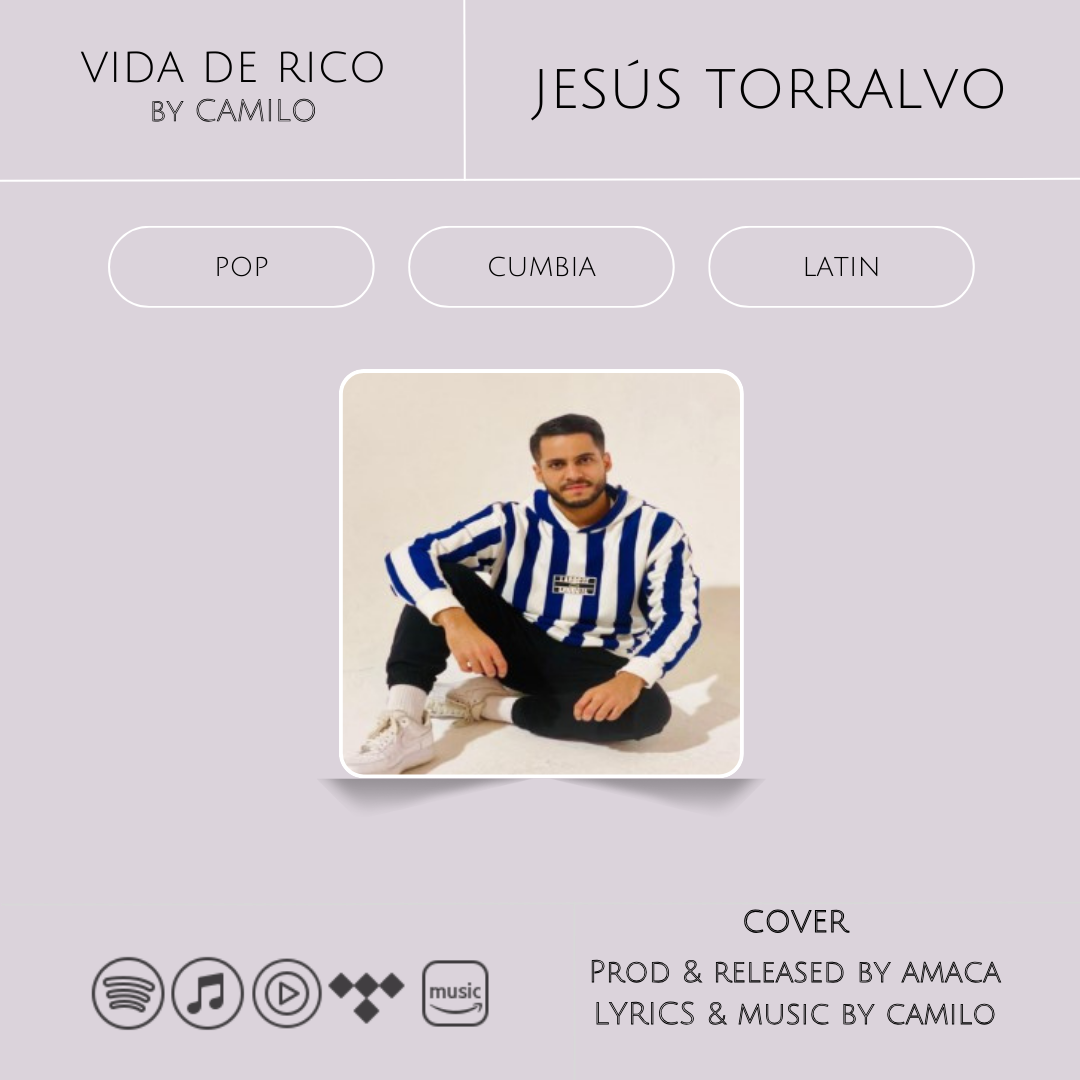
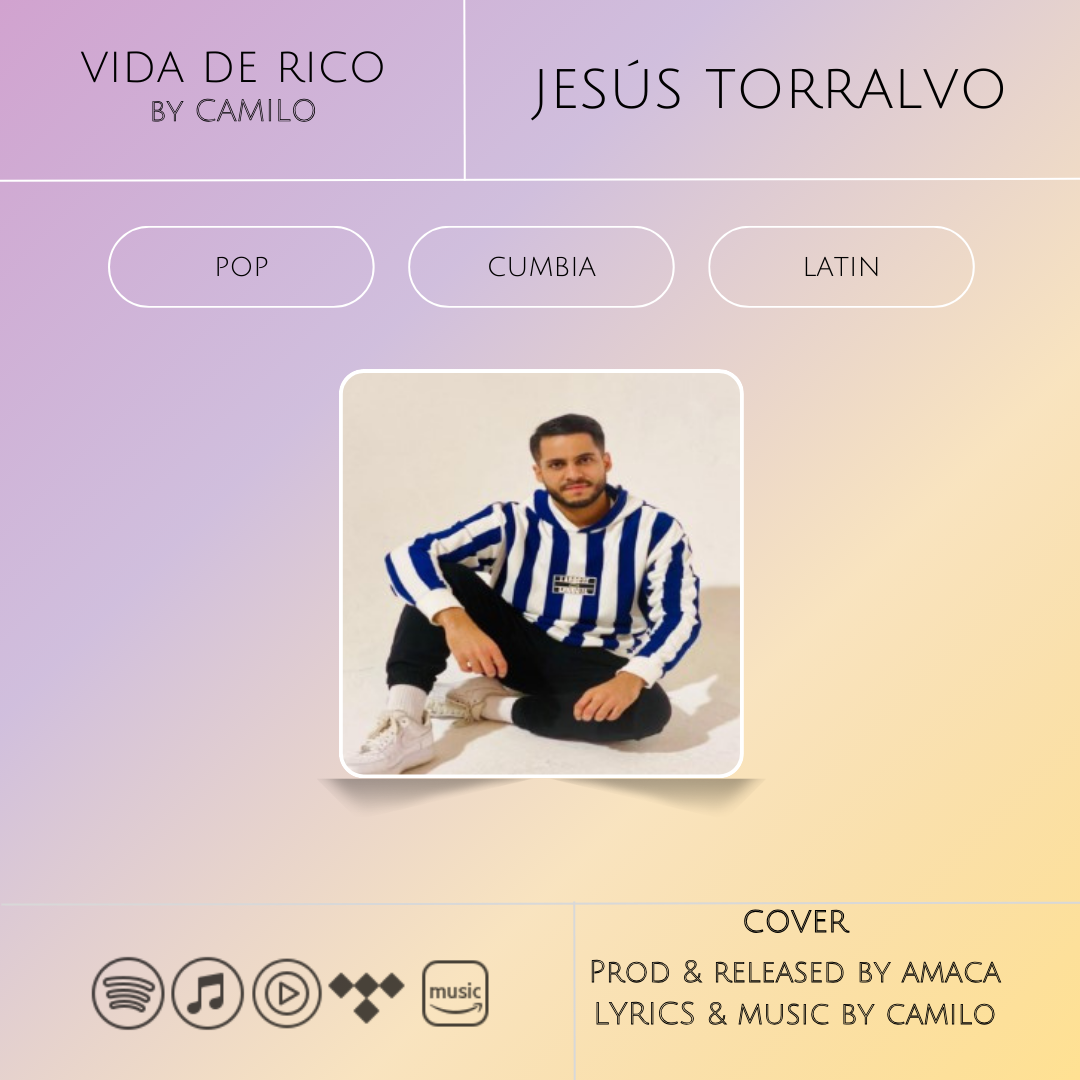
vaqeriendo

diff --git a/styles.css b/styles.css
@@ -1,22 +1,41 @@
 body {
-    font-family: "Julius Sans One", serif;
+    font-family: "Fontdiner Swanky", serif;
+    font-weight: 400;
+    font-style: normal;
     line-height: 1.6;
     margin: 0;
     padding: 0;
     color-scheme: light;
-    background: linear-gradient(to right, #c9bac9, #dbd3db);
+    background: linear-gradient(to right,#ffffffcd, #e99e1b92, #92238d8b, #662c9083);
     color: rgb(51, 51, 51);
 }
 
-.header {
-}	
 
 .header img {
     width: 100%;
-    max-width: 580px;
+    max-width: 380px;
     height: auto;
     margin: 0 auto;
     display: block;
+}
+
+.header h1 {
+    margin: 0 auto;
+    width: 258px;
+    margin-top: 0;
+    font-size: 3.5rem;
+    background: -webkit-linear-gradient(#ffffff, #e99e1b49, #92238d90,#662c9083);
+    -webkit-background-clip: text;
+    -webkit-text-fill-color: transparent;
+    text-shadow: 1px 0 #91288c, -2px 0 #ffffff, 0 2px #ffffff, 0 -1px #ffffff,
+    1px 1px #ffffff, -1px -1px #ffffff, 1px -1px #ffffff, -1px 1px #ffffff;
+}
+
+.header h1:hover {
+    cursor: pointer;
+    transition-duration: 1100ms;
+    text-shadow: 1px 0 #f5f3f4, -2px 0 #91288c, 0 2px #91288c, 0 -1px #91288c,
+    1px 1px #91288c, -1px -1px #91288c, 1px -1px #91288c, -1px 1px #91288c;
 }
 
 .julius-sans-one-regular {
@@ -24,6 +43,12 @@ body {
     font-weight: 400;
     font-style: normal;
   }
+
+  .fontdiner-swanky-regular {
+    font-family: "Fontdiner Swanky", serif;
+    font-weight: 400;
+    font-style: normal;
+  }  
 
 .container {
     width: 90%;
@@ -52,12 +77,21 @@ section {
 
 .hero {
     text-align: center;
-    padding: 12px 0;
+    padding: 1px 0 12px;
 }
 
 .hero h1 {
-    font-size: 2.5em;
+    font-size: 3em;
+    color: #ffffff;
     margin-bottom: 20px;
+    text-shadow: 1px 0 #000000, -2px 0 #000000, 0 2px #000000, 0 -1px #000000,
+    1px 1px #ded40a, -1px -1px #cbc212, 1px -1px #91288c, -1px 1px #91288c;
+}
+
+.hero p {
+    font-family: "Julius Sans One", serif;
+    font-size: 1.5rem;
+    color: #000000;
 }
 
 .releases h2 {

diff --git a/index.html b/index.html
@@ -3,10 +3,11 @@
 <head>
     <meta charset="UTF-8">
     <meta name="viewport" content="width=device-width, initial-scale=1.0">
-    <title>AMACA Producciones</title>
+    <title>AMACA PRODUCCIONES </title>
+    <link rel="icon" href="src/img/favicon.ico" type="image/x-icon">
     <link rel="preconnect" href="https://fonts.googleapis.com">
     <link rel="preconnect" href="https://fonts.gstatic.com" crossorigin>
-    <link href="https://fonts.googleapis.com/css2?family=Julius+Sans+One&display=swap" rel="stylesheet">
+    <link href="https://fonts.googleapis.com/css2?family=Fontdiner+Swanky&family=Julius+Sans+One&display=swap" rel="stylesheet">
     <link rel="stylesheet" href="https://cdnjs.cloudflare.com/ajax/libs/slick-carousel/1.8.1/slick.min.css">
     <link rel="stylesheet" href="https://cdnjs.cloudflare.com/ajax/libs/slick-carousel/1.8.1/slick-theme.min.css">
     <link rel="stylesheet" href="styles.css">
@@ -14,12 +15,13 @@
 <body>
     <div class="container">
         <header class="header">
-            <img src="src/img/logos/logo01.png" alt="Studio Logo" class="logo">
+            <img src="src/img/logos/400Logo.png" alt="Studio Logo" class="logo">
+            <h1> AMACA </h1>
         </header>
 
         <section class="hero">
-            <h1>Welcome to Our Music Production Studio</h1>
-            <p>Crafting music that move the world</p>
+            <h1>Bienvenido a tu estudio de Producción Musical</h1>
+            <p>el lugar en el que vestimos tu canción</p>
         </section>
         <section>
             <div class="contact">

diff --git a/script.js b/script.js
@@ -6,7 +6,7 @@ $(document).ready(function(){
         slidesToShow: 3,
         slidesToScroll: 1,
         autoplay: true,
-        autoplaySpeed: 3000,
+        autoplaySpeed: 1000,
         pauseOnHover: true,
         responsive: [
             {
